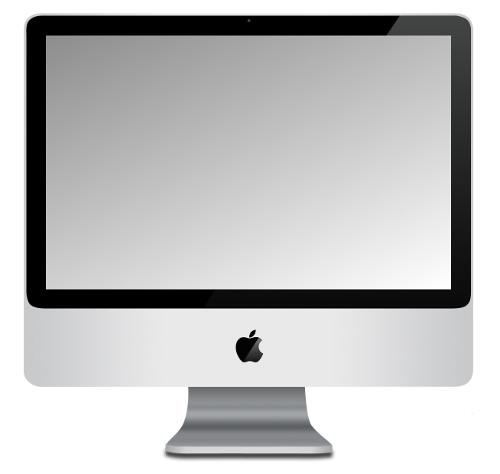
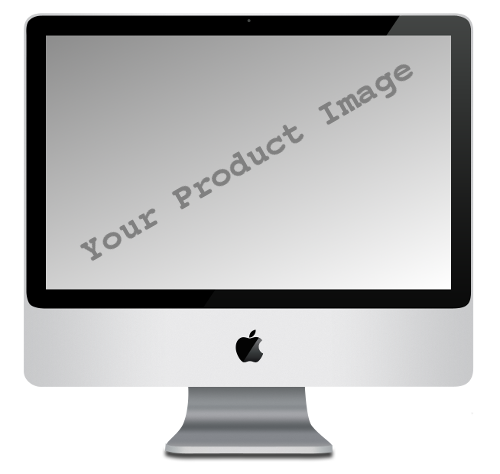
* Tweak to readme.txt and imac.png image
git-svn-id: https://plugins.svn.wordpress.org/wp-cards/trunk@1033458 b8457f37-d9ea-0310-8a92-e5e31aec5664

Changed region(s): [[0.33, 0.2658, 0.6, 0.443], [0.63, 0.1181, 0.84, 0.2658], [0.15, 0.443, 0.33, 0.5612]]

diff --git a/cards/card-jumbotron-register.php b/cards/card-jumbotron-register.php
@@ -112,6 +112,7 @@ class wp_cards_jumbotron_register_widget extends WP_Widget {
 		$instance = wp_parse_args( (array) $instance, $defaults );
                 
 ?>
+<p><small><?php _e( 'Note: Logged in users will noy be able to see this card, since they are already registered.', 'wp-cards' ); ?></small></p>
 <p>
 	<label for="<?php echo $this->get_field_id( 'title' ); ?>"><?php _e( 'Title', 'wp-cards' ); ?>:</label> 
 	<input type="text" class="widefat" id="<?php echo $this->get_field_id( 'title' ); ?>" name="<?php echo $this->get_field_name( 'title' ); ?>" value="<?php echo $instance['title']; ?>" />
